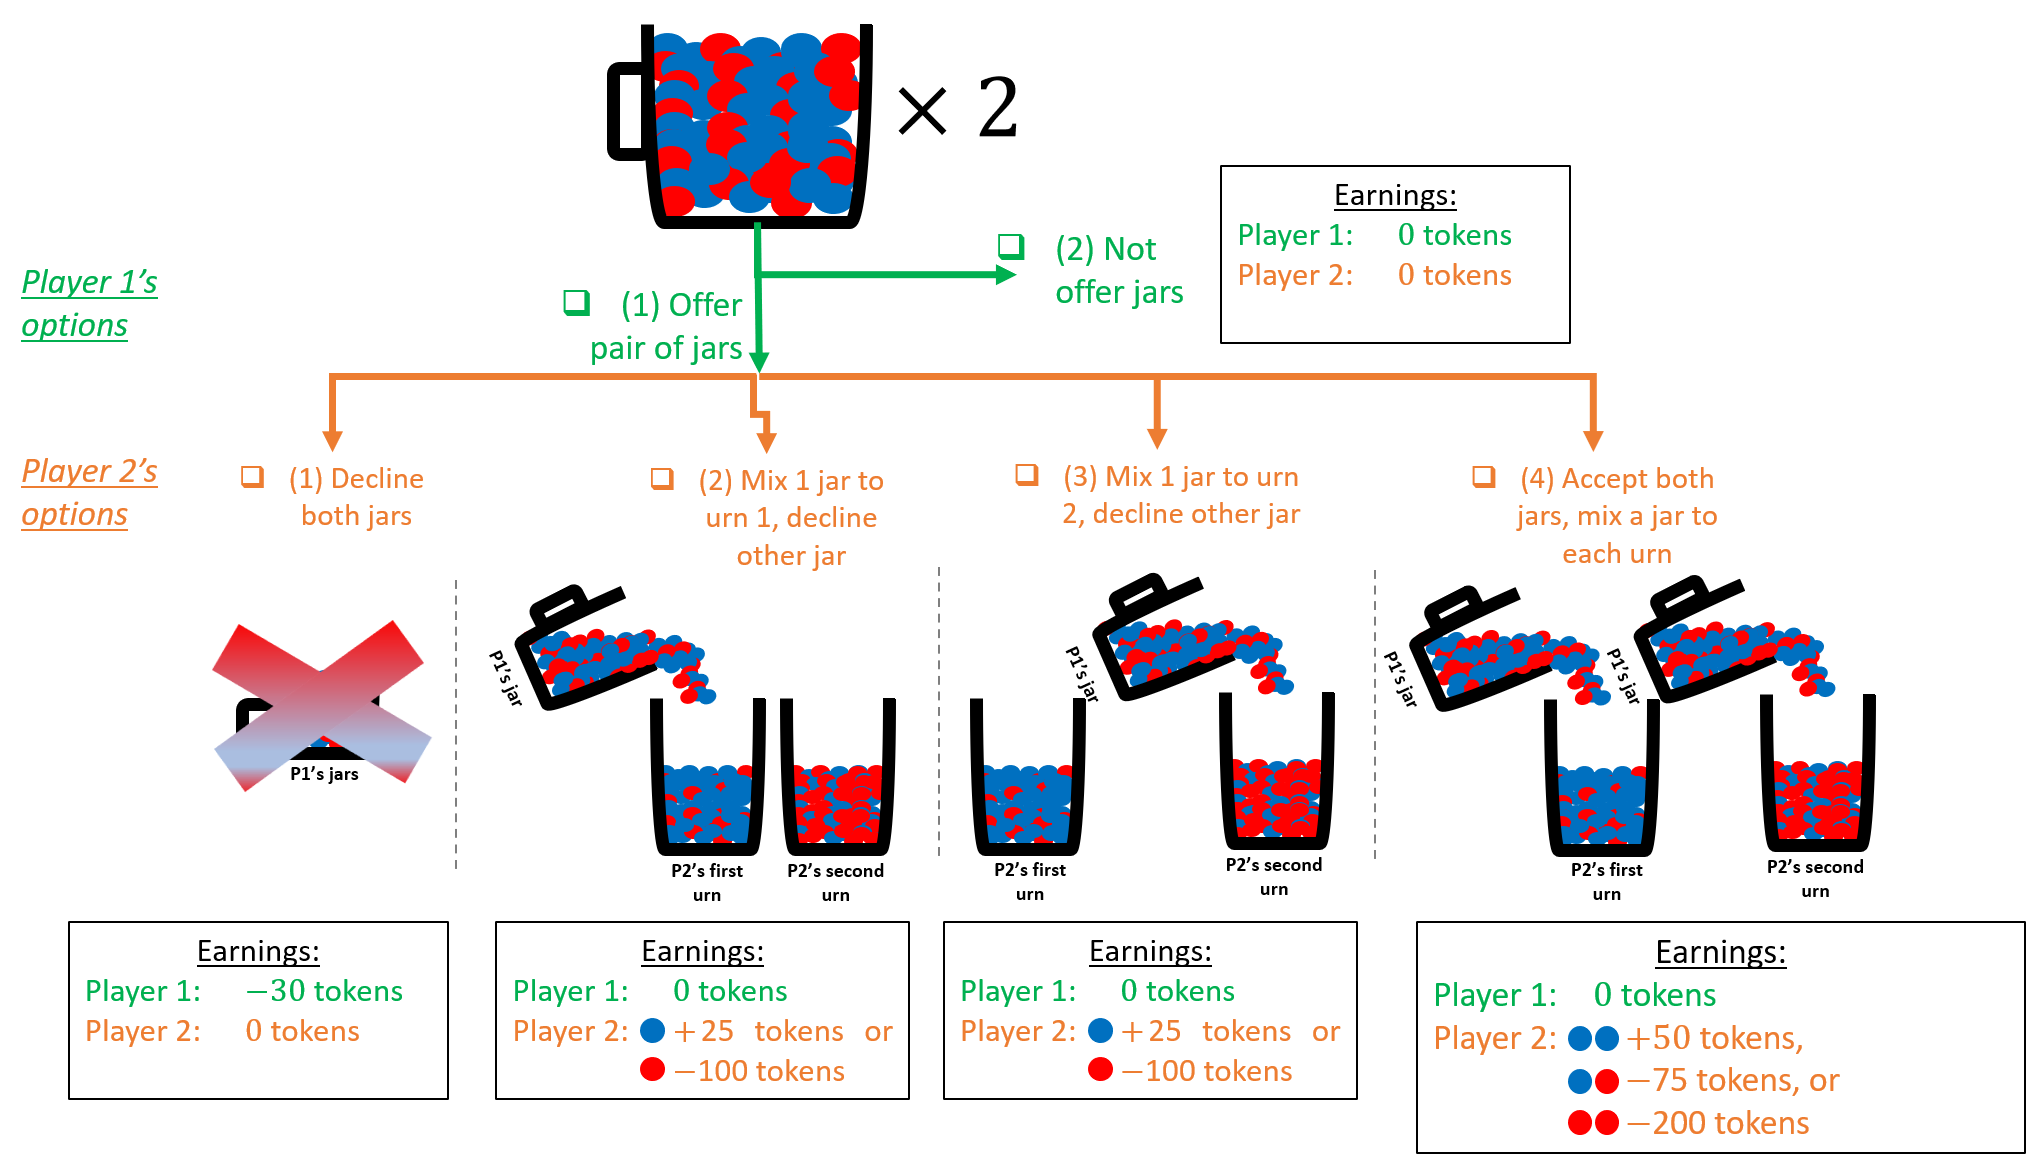
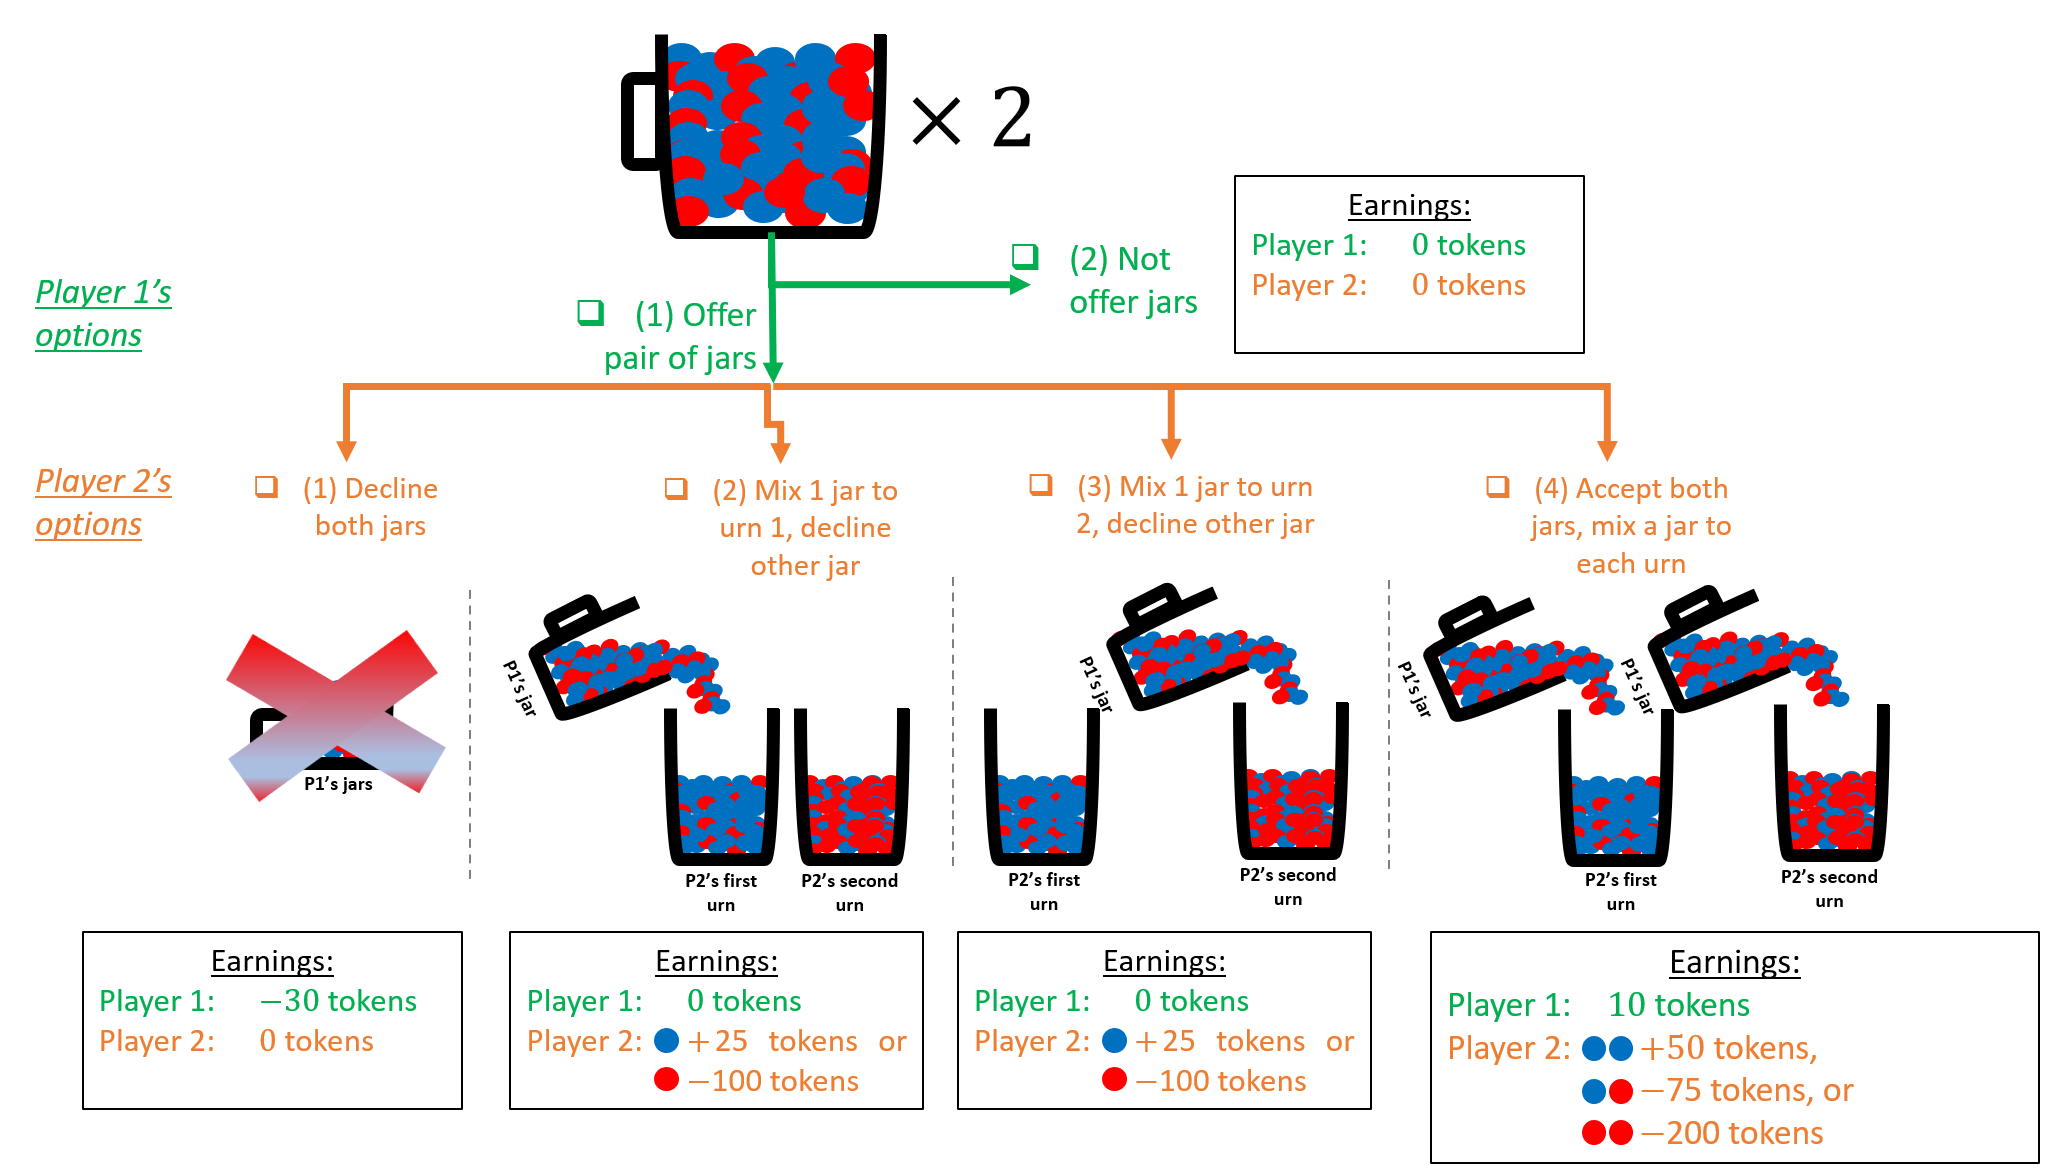
fixed changes

diff --git a/app/server/main/routes.js b/app/server/main/routes.js
@@ -434,7 +434,8 @@ router.get('/api/get/senddata', (req,res,next) => {
             var player2earnings = 0;
 
             //C
-            var player1reward = 0;
+            var player1rewardsingle = 0
+            var player1rewardboth = 10;
             //D
             var player1penalty = -30;
             //Pi
@@ -485,7 +486,7 @@ router.get('/api/get/senddata', (req,res,next) => {
                     totalbluecount = player1bluecount+player2highbluecount; //new
                     bluehighprobability = (totalbluecount/200); //new
                     bluelowprobability = player2lowbluecount/100;
-                    player1earnings += player1reward;
+                    player1earnings += player1rewardsingle;
 
                     if (drawings_high <= bluehighprobability) {
                         drawn_ball = 'blue ball';
@@ -507,7 +508,7 @@ router.get('/api/get/senddata', (req,res,next) => {
                     totalbluecount = player1bluecount+player2lowbluecount; //new
                     bluelowprobability = (totalbluecount/200); //new
                     bluehighprobability = player2highbluecount/100;
-                    player1earnings += player1reward;
+                    player1earnings += player1rewardsingle;
 
                     if (drawings_low <= bluelowprobability) {
                         drawn_ball = 'blue ball';
@@ -527,7 +528,7 @@ router.get('/api/get/senddata', (req,res,next) => {
                 } else if (data === 'MixWithBothBlue') {
                     bluelowprobability = ((player1bluecount+player2lowbluecount)/200); //new
                     bluehighprobability = ((player1bluecount+player2highbluecount)/200); //new
-                    player1earnings += player1reward;
+                    player1earnings += player1rewardboth;
 
                     if (drawings_low <= bluelowprobability) {
                         drawn_ball = 'blue ball';

diff --git a/app/client/src/js/components/Player2Holistic.js b/app/client/src/js/components/Player2Holistic.js
@@ -54,8 +54,8 @@ const Player2Holistic = () => {
     var player2_highblue = parseInt(gameState.data[gameState.data.length-1]['player2highbluecount']);
     var player2_lowblue = parseInt(gameState.data[gameState.data.length-1]['player2lowbluecount']);
 
-    var mix_high_blue = (2*player1_blue+player2_highblue);
-    var mix_low_blue = (2*player1_blue+player2_lowblue);
+    var mix_high_blue = (player1_blue+player2_highblue);
+    var mix_low_blue = (player1_blue+player2_lowblue);
     var mix_both_high_blue = (player1_blue+player2_highblue);
     var mix_both_low_blue = (player1_blue+player2_lowblue);
 
@@ -150,8 +150,8 @@ const Player2Holistic = () => {
 
 
         var MixWithLowBlueLabel = `Mix One of Player 1's jar with your Low Blue urn. The High Blue urn will remain the same (with 100 balls), but for the Low Blue urn,
-                                    we will now have 200 balls. You will have ${(100*(mix_low_blue/200)).toFixed(1)}% blue balls in the Low Blue urn and
-                                    ${(100*(player2_highblue/100)).toFixed(1)}% blue balls in the High Blue urn (before the balls are drawn).`
+                                    we will now have 200 balls. You will have ${(100*(player2_highblue/100)).toFixed(1)}% blue balls in the High Blue urn and
+                                    ${(100*(mix_low_blue/200)).toFixed(1)}% blue balls in the Low Blue urn (before the balls are drawn).`
 
 
         var MixWithBothBlueLabel = `Mix One of Player 1's jar with your High Blue urn, and mix the other with your Low Blue urn. Both urns will now have 200 balls.

diff --git a/app/client/src/js/components/Player1.js b/app/client/src/js/components/Player1.js
@@ -38,16 +38,18 @@ const Player1 = () => {
     var earnings_messaging = [];
 
     if (gameState.treatment === 'status_quo') {
-        player1reward = 8;
-        player1penalty = -24;
+        player1rewardsingle = 0;
+        player1rewardboth = 10;
+        player1penalty = -30;
 
         earnings_messaging = [
-            <Typography variant="subtitle1" gutterBottom>Your reward amount if you Player 2 accepts your jar: {player1reward} tokens</Typography>,
-            <Typography variant="subtitle1" gutterBottom>Your penalty amount if you Player 2 rejects your jar: {player1penalty} tokens</Typography>
+            <Typography variant="subtitle1" gutterBottom>Your reward amount if you Player 2 accepts BOTH of your jars: {player1rewardboth} tokens</Typography>,
+            <Typography variant="subtitle1" gutterBottom>Your reward/penalty amount if you Player 2 accepts ONE of your jars: {player1rewardsingle} tokens</Typography>,
+            <Typography variant="subtitle1" gutterBottom>Your penalty amount if you Player 2 rejects your jars: {player1penalty} tokens</Typography>
         ]
     } else if (gameState.treatment === 'holistic') {
-        player1reward = 8;
-        player1penalty = 0;
+        player1reward = 16;
+        player1penalty = -8;
 
         earnings_messaging = [
             <Typography variant="subtitle1" gutterBottom>Your reward amount if you Player 2 draws 2 blue balls: {2*player1reward} tokens</Typography>,

diff --git a/app/client/src/js/components/InstructionsPlayer2Holistic.js b/app/client/src/js/components/InstructionsPlayer2Holistic.js
@@ -289,7 +289,7 @@ const InstructionsPlayer2Holistic = () => {
                     </ul>
                 </Grid>
                 <Grid item align="center" xs={5} >
-                    <img src={InstructionsPage1} class="imginstructions" />
+                    <img src={InstructionsPage1Holistic} class="imginstructions" />
                 </Grid>
                 <Grid item align="center" xs={8} >
                     <p>Wait 5 seconds before the next page can appear...</p>
